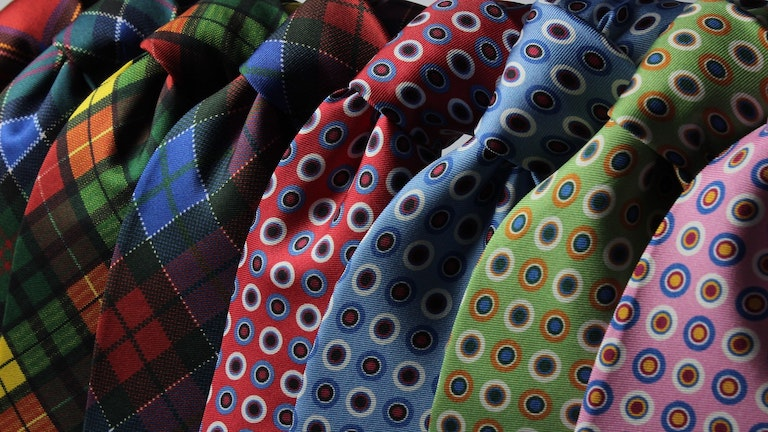
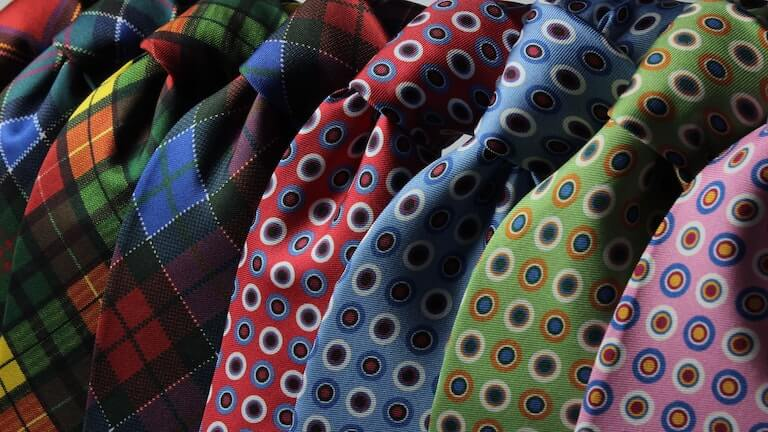
Optimized photos

diff --git a/index.html b/index.html
@@ -87,7 +87,7 @@
             <div class="slideshow-slide">
                 <div class="slideshow-content">
                     <h2 class="slideshow-content-heading">Variety is the Spice</h2>
-                    <p class="slideshow-content-paragraph">We have a variety of colors and prints to add versatility to your wardrobe. Variety is the spce of life!</p>
+                    <p class="slideshow-content-paragraph">We have a variety of colors and prints to add versatility to your wardrobe. Variety is the spice of life!</p>
                 </div>
                 <img src="./images/img2.jpg" alt="" class="slideshow-slide-img">
             </div>
